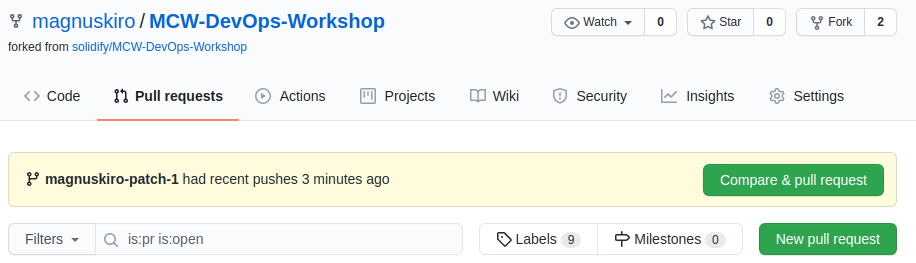
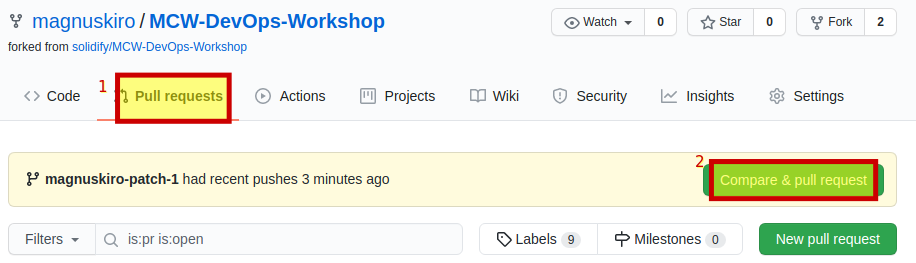
image content update for ex7

Changed region(s): [[0.7642, 0.5779, 0.9782, 0.7909], [0.0917, 0.2738, 0.2751, 0.4867]]

diff --git a/Hands-on lab/HOL step-by-step - Continuous delivery in Azure DevOps.md b/Hands-on lab/HOL step-by-step - Continuous delivery in Azure DevOps.md
@@ -900,156 +900,57 @@ You'll then merge the pull request into the master branch which triggers an auto
 
 In the tasks below, you will make changes directly through the Azure DevOps web interface. These steps could also be performed locally through an IDE of your choosing or using the command line.
 
-### Task 1: Add new file
+### Task 1: Commit new file with a Pull request
 
-1. Select the branch you want to 
+1. Select the branch you want to change or add content to.
+
 ![](images/stepbystep/media/github_select_branch.png)
 
-2. Choose add new file to the repo.
+
+2. Choose 'add file' to add a file to the repo.
 
 ![](images/stepbystep/media/github_add_file.png)
 
 3. Edit the file and choose new branch
+
+Choose name and content for the file.
+
 ![](images/stepbystep/media/github_new_file_content.png)
+
+Then create a commit heading, and describe the change in the commit.
+Make sure to select "new branch" when you create files in a repo with multiple contributors.
+
 ![](images/stepbystep/media/github_commit_new_file.png)
 
+Now the file should be added to a new branch. 
 
-4. Then create a pull request
 
-Navigate to the pullrequests
+4. Create a pull request
 
-compare & pullrequest 
+Navigate to 'Pull requests'.
+The click "compare & pull request"
 ![](images/stepbystep/media/github_compare_and_pull_request.png)
 
 
+Then choose the correct repositofy and branch you want to push to.
+
 ![](images/stepbystep/media/github_select_your_branch_for_pr.png)
 
-![](images/stepbystep/media/github_pr_selct_base_and_optional.png)
+Add apropriate description, reviewers, and labels to the pull request.
 
-5. Merge the pullrequest
+![](images/stepbystep/media/github_pr_select_base_and_optional.png)
+
+Then click create.
+
+5. Merge the pull request
+Now you can see the created pull request. 
+If everything is good, then you can merge it.
 ![](images/stepbystep/media/github_pr_merge.png)
 
 
-### Task 1: Set up a Pull Request policy
+### Task 2: 
+Create branch merge rules.  TODO
 
-1.  Select the "Repos" menu item from the left-hand navigation. Then, choose "Branches".
-
-Start creating by doing the steps 1-3 in the screenshot below
-
-![](images/stepbystep/media/PR-1.png)
-
-2.  Then enable the policy by checking 1 and 2 in screenshot below, and then click 3 to enable a build to run when the PR is created.  Inside that dialog, choose the correct build definition in 4, then set a nice name in 5.
-
-The first check enables the build policy to require a work item to be included with the PR.  It may be added with one of the commits, or added directly to the PR.
-
-(Notice: If you *do* enable this, which is the recommended setup, then you also must add a workitem in your process below with the code changes. Ignore this for the workshop if you dont want to do that.)
-
-The second check is to ensure that if anyone comments on this PR during the peer review phase, then those comments have to be resolved.
-
-![](images/stepbystep/media/PR-2.png)
-
-3.  Save everything
-
-### Task 2: Create a new branch
-
-1. Select the **Repos** menu item from the left-hand navigation. Then, choose **Branches**.
-
-    ![On the screen, Repos and Branches are highlighted.](images/stepbystep/media/image106.png "Azure DevOps window")
-
-2. Select the *New branch* button in the upper right corner of the page.
-
-    ![On the screen, New branch is highlighted.](images/stepbystep/media/image106a.png "Azure DevOps window")
-
-3. In the *Create a branch* dialog, enter a name for the new branch (e.g. **new-heading**). In the *Based on* field, be sure **master** is selected.
-
-    ![On the popup window, Name and Based on are highlighted along with the Create branch button.](images/stepbystep/media/image107.png "Create a branch popup")
-
-4. Select the **Create** button.
-
-### Task 3: Make a code change to the task branch
-
-1.  Choose the name of the newly created branch. This will present the *Files* window showing all the files in the repository.
-
-    ![On the screen, the new-heading branch is highlighted.](images/stepbystep/media/image108.png "Branches window")
-
-2. Next, you'll make a change to a page in the web application inside the web browser.
-   
-    Select the **ClientApp** folder.
-
-4. Then choose the **src** folder.
-
-5. Next select the **app** folder.
-
-6. Then, the **home** folder.
-
-7. Locate and select the **home.component.html** file. It will display the contents of the file.
-
-8. Select the **Edit** button on the top right of the screen to begin editing the page.
-
-    ![On the screen, Edit is highlighted.](images/stepbystep/media/image109.png "Files window")
-
-9. Replace the code ```<h1>Welcome to Tailspin Toys v1!</h1>``` on *line 1* with the following:
-
-    ```
-    <h1>Welcome to Tailspin Toys v2!</h1>
-    ```
-    
-10. Now that you've completed the code change, select the **Commit** button on the top right side of the screen.
-
-    ![On the screen, line 6 code change and the Commit button are highlighted.](images/stepbystep/media/image110.png "Completing the code change")
-
-11. This will present the Commit dialog where you can enter a comment; one will automatically be filled in for you. Select the **Commit** button.
-
-    ![On the popup, the Commit button is highlighted.](images/stepbystep/media/image111.png "Commit dialog popup")
-
-### Task 4: Submit a pull request
-
-1. Near the top of the screen, locate the **Create a pull request** button.
-
-    ![On the screen, Create a pull request is highlighted.](images/stepbystep/media/image112.png "Create a pull request")
-
-2. This brings up the *New Pull Request* page. It shows we are submitting a request to merge code from our **new-heading** branch into the **master** branch. You have the option to change the *Title* and *Description* fields. 
-    
-    Locate the **Reviewers** field. 
-    
-    Type in **Tailspin** and select the search tooltip. 
-    
-    Select the **[TailspinToys]\TailspinToys Team** from the search results. This assigns The TailspinToys Team (which you are a member of) to review this pull request before it will be merged. The details of the code change are at the bottom of the page.
-
-    ![On the screen, Reviewers is highlighted.](images/stepbystep/media/image113.png "New Pull Request page")
-
-3. Select the **Create** button to submit the pull request.
-
-### Task 5: Approve and complete a pull request
-
-Typically, the next few steps would be performed by another team member. This would allow for the code to be peer reviewed. However, in this scenario, you will continue as if you are the only developer on the project.
-
-1.  After submitting the pull request, you are presented with Pull Request review screen. Let's assume all the changes made were acceptable to the review team.
-Confirm that the build is green, it is shown on the same page. 
-
-Note that if the build is not green, you can not merge the Pull Request as in step 2-4 below. You are then blocked.
-
-2. First, select the **Approve** button to approve of the code that was modified submitted as part of the pull request.
-
-3. This will note that you approved the pull request. Then, choose the **Complete** button to finish and merge the code from the pull request into the master branch.
-
-    ![On the screen, Approve and Complete are highlighted.](images/stepbystep/media/image114.png "Approve and complete to merge the pull request")
-
-4.  After choosing the Complete button in the previous step, you will be presented with the Complete pull request popup. You can add additional comments for the merge activity. By selecting the *Delete new-heading after merging* option, our branch will be deleted after the merge has been completed. This keeps our repository clean of old and abandoned branches and eliminates the possibility of future confusion.
-
-    ![In the Complete pull request dialog box, Delete new-heading after merging is selected and highlighted, and Complete merge is highlighted at the bottom.](images/stepbystep/media/image115.png "Complete pull request dialog box")
-
-5.  Select the **Complete merge** button.
-
-6.  You will then see a confirmation of the completed pull request.
-
-    ![On the popup, Complete merge is highlighted.](images/stepbystep/media/image116.png "Complete pull request popup")
-
-7.  Congratulations! You just created a branch, made a code change, submitted a pull request, approved the pull request, and merged the code.
-
-8.  Because we configured continuous integration and continuous deployment, an automated build will be triggered and deployment to dev stage will then begin immediately after a successful build. It will continue through on to the test and production stages.
-
-    ![On the screen, a new build has been automatically triggered.](images/stepbystep/media/image117.png "List of builds")
 
 ## After the hands-on lab
 
